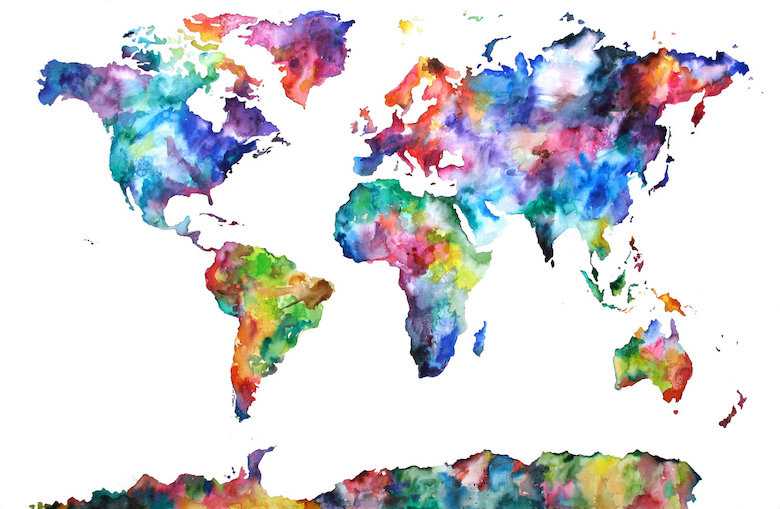
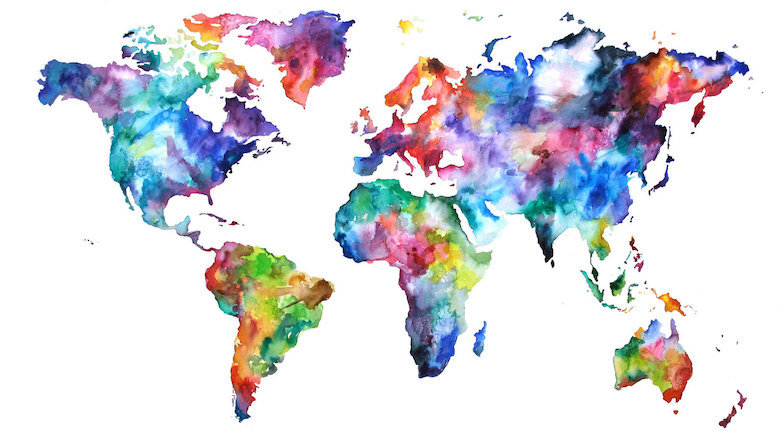
se cambia nombre del archivo splash.js en dicha vista; se agregan clases de estilo al header y footer y se modifica la etiqueta svg por img; se agrega archivo map.svg; se agrega archivo con dimensiones modificadas de mapamundi.jpg

diff --git a/index.html b/index.html
@@ -12,7 +12,7 @@
         <link rel="stylesheet" type="text/css" media="screen" href="css/main.css" />
     </head>
     <body>
-        <header> 
+        <header class="purple-bg white-text center"> 
             <h2> Lourdes Atilano </h2>
             <h4> ~ Front-end Developer ~</h4>
         </header>
@@ -29,7 +29,13 @@
                     <li class="li-sections-mobile"><a class="btn-floating" data-modal-header="Hobbies" onclick="showModal(this)"><i class="fas fa-bicycle purple-bg white-text"></i></a></li>
                 </ul>
             </div>
-            <svg width="99.9%" height="85vh"> <image width="120%" height="100%" x="-100" y="0" xlink:href="./assets/images/mapamundi-acuarela.jpg"></image></svg>
+            
+            <!--<svg width="100%" heigth="100px" x="0" y="0">
+                <image xlink:href="./assets/images/map.svg"></image>
+            </svg> -->
+
+            <img id="img-mapamundi" src="./assets/images/map.svg"/>
+            
             <div id="modal-container"></div>
 
             <!-- MODAL ABOUT ME -->
@@ -137,7 +143,7 @@
                 </div>
 
         </main>
-        <footer>
+        <footer class="purple-bg white-text center">
             <p> <i class="fas fa-heart"></i> Made in Mexico 2018 <i class="fas fa-heart"></i>  </p>
         </footer>
 

diff --git a/splash.html b/splash.html
@@ -17,6 +17,6 @@
         
         <!-- Js Files -->
         <script src="https://ajax.googleapis.com/ajax/libs/jquery/3.3.1/jquery.min.js" crossorigin="anonymous"></script>
-        <script src="js/app.js"></script>
+        <script src="js/splash.js"></script>
     </body>
 </html>
